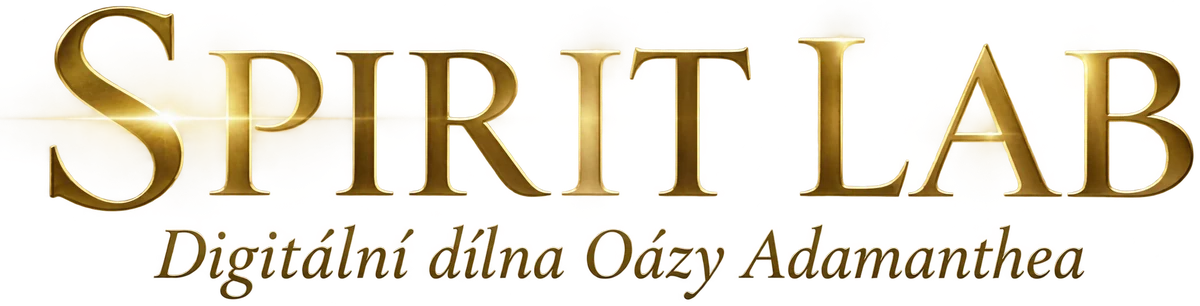
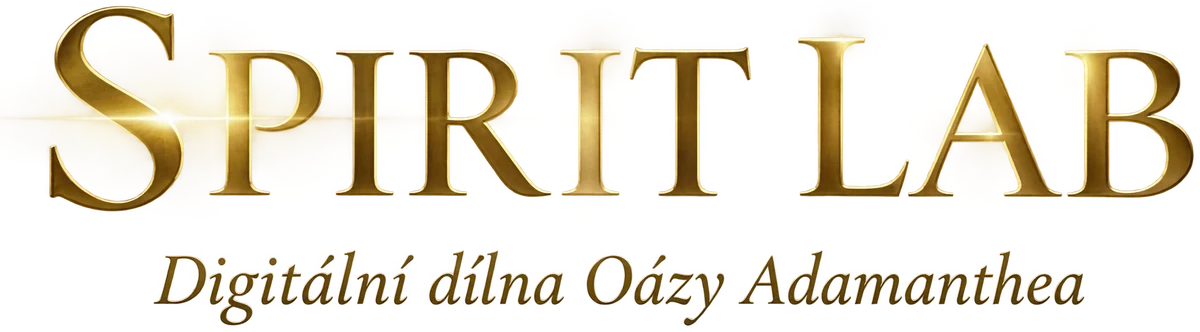
Spirit Lab: větší mezera mezi logem a claimem

diff --git a/oaza-web/spirit-lab.html b/oaza-web/spirit-lab.html
@@ -141,7 +141,7 @@ footer a{color:var(--krem)}
 <main>
 <header>
   <div class="hero-ban"><picture><source media="(max-width:700px)" srcset="/img/spirit-lab/hero3-m.webp"><img src="/img/spirit-lab/hero3.webp" width="1920" height="813" alt="" fetchpriority="high"></picture>
-    <div class="hero-txt"><h1><img src="/img/spirit-lab/nazev.webp?v=4" width="1200" height="306" alt="Spirit Lab – Digitální dílna Oázy Adamanthea"></h1></div></div>
+    <div class="hero-txt"><h1><img src="/img/spirit-lab/nazev.webp?v=5" width="1200" height="332" alt="Spirit Lab – Digitální dílna Oázy Adamanthea"></h1></div></div>
   <div class="obal">
   <p class="lead">Když se vědomí propojí s&nbsp;technologií, vzniká nový prostor pro vnitřní vývoj. Pro hlubší práci, rozšíření vnímání, otevření schopností a&nbsp;objevování toho, kým skutečně jsi.</p>
   </div>
